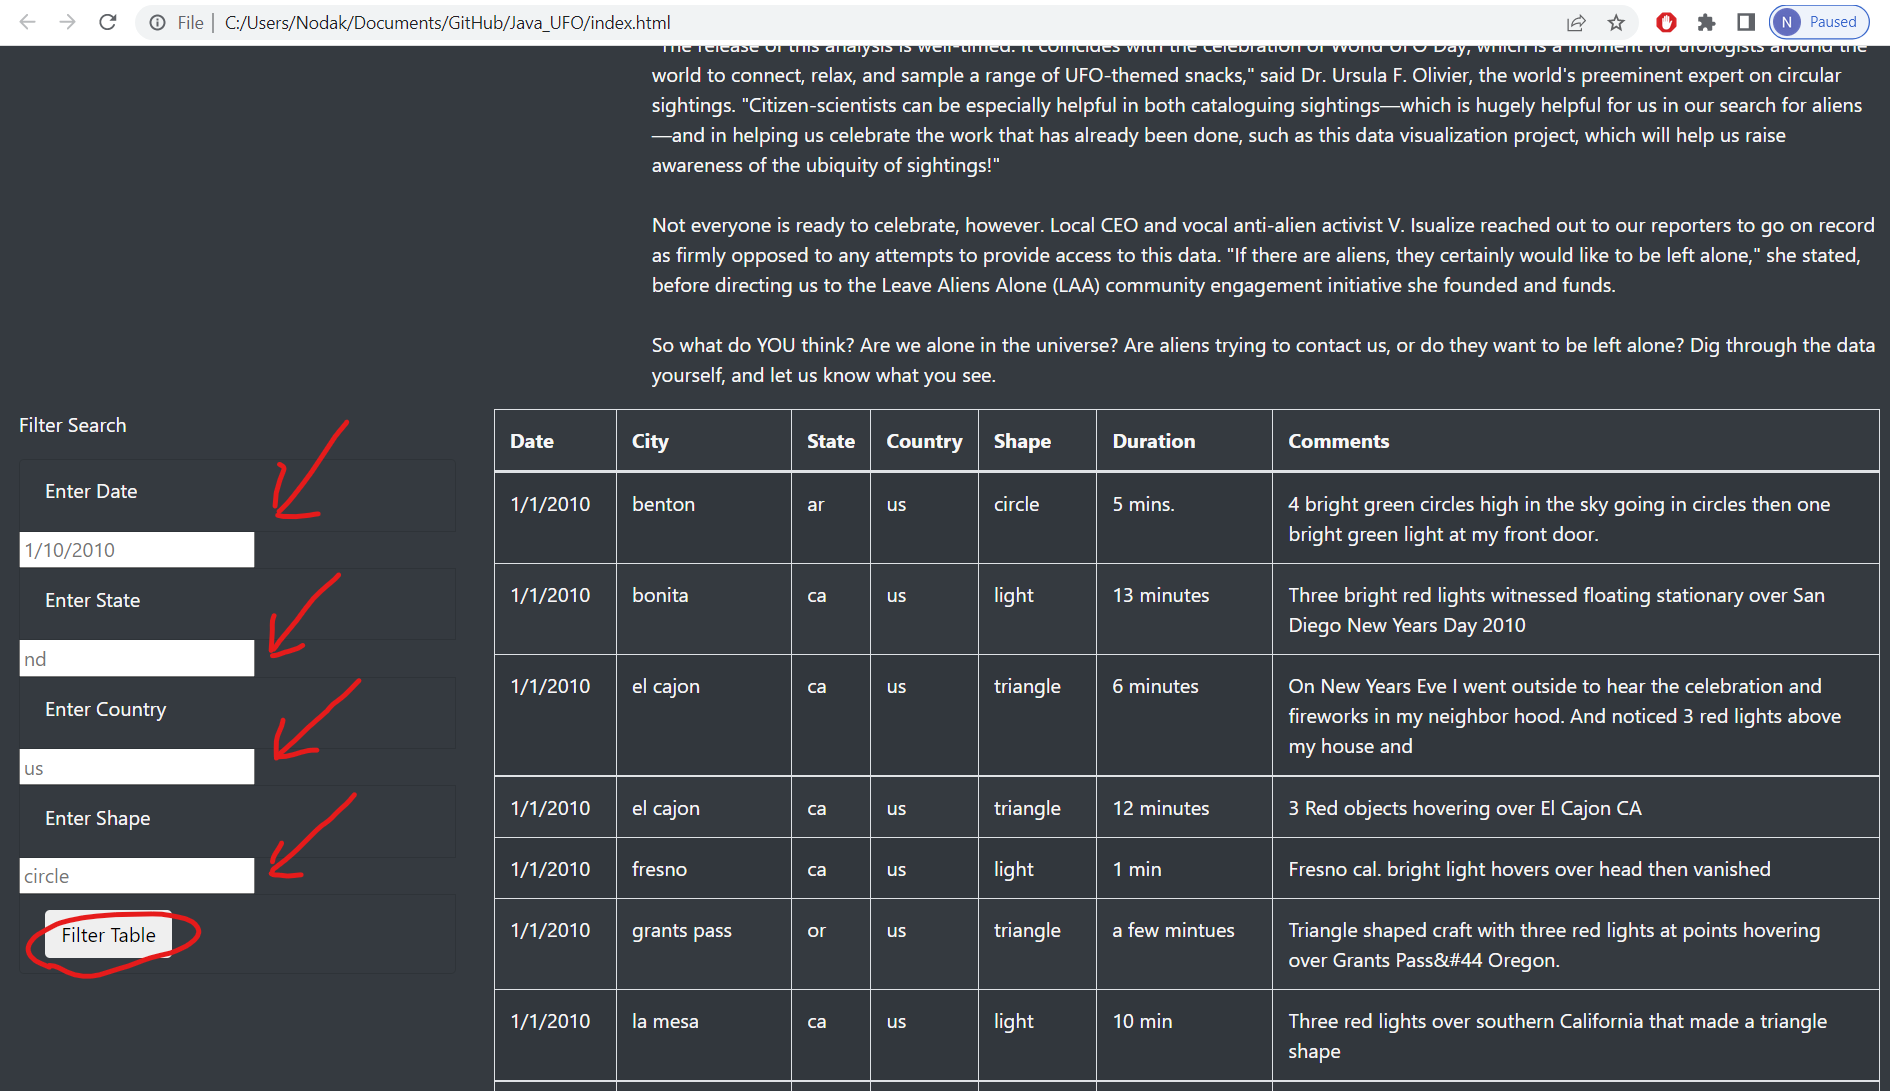
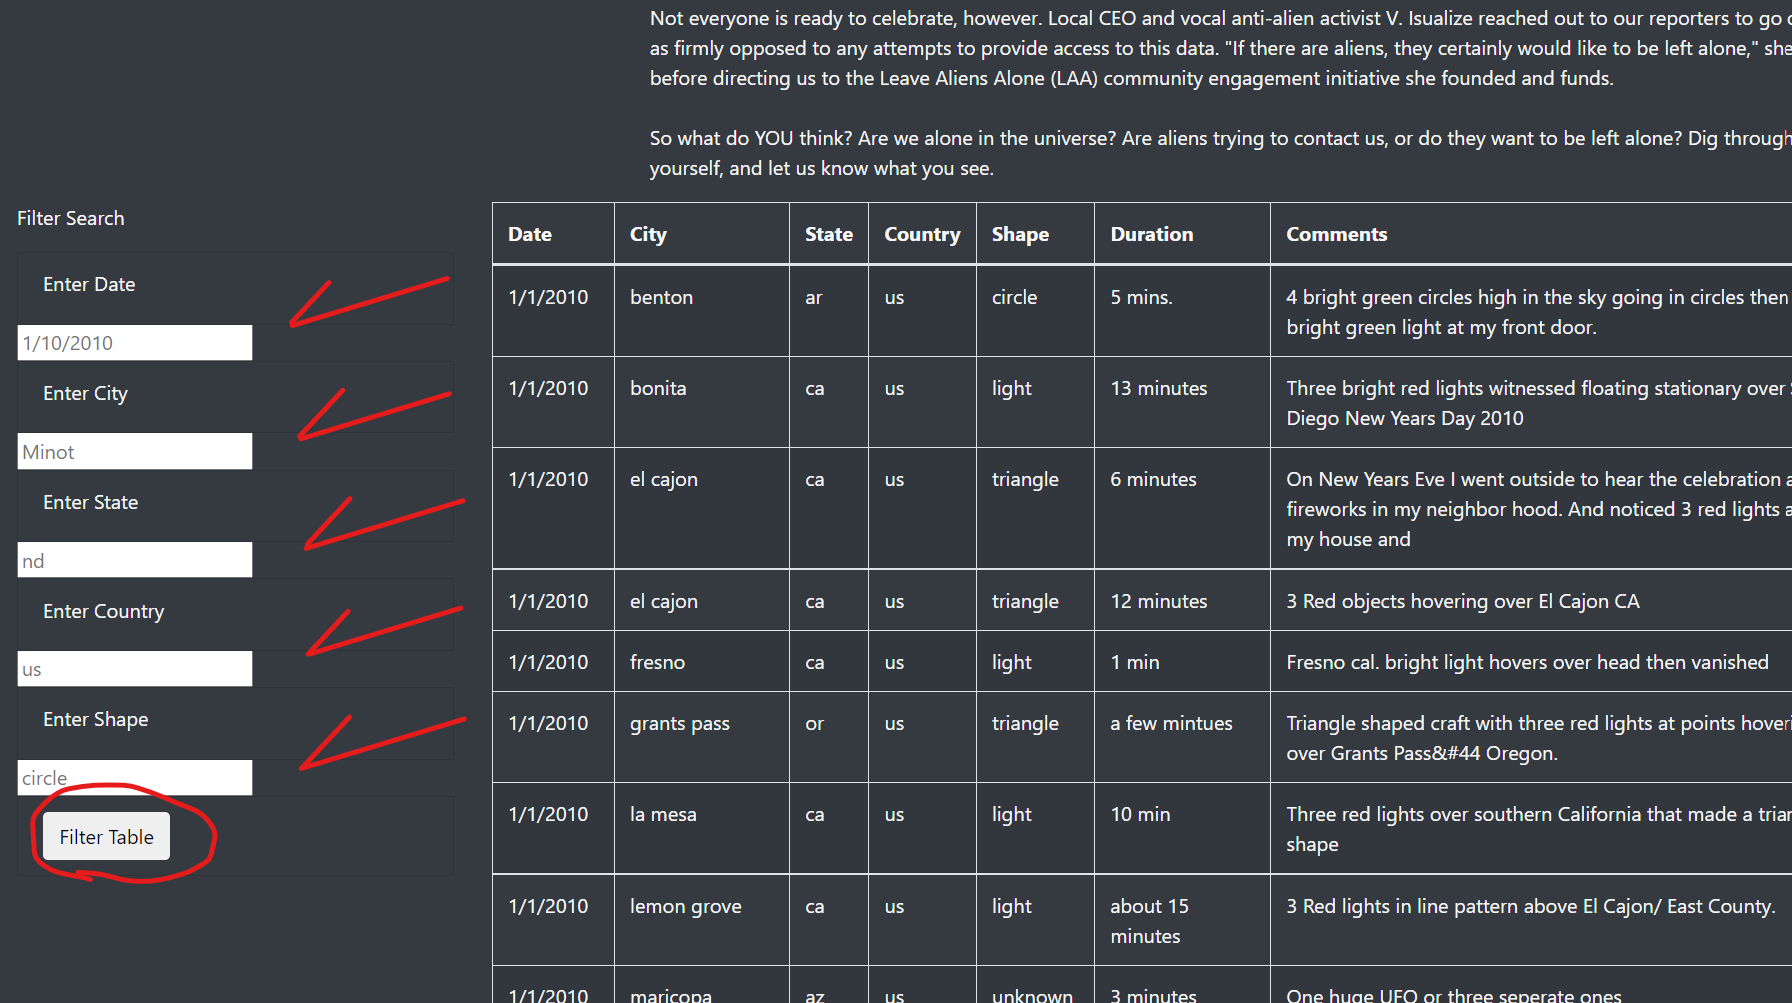
Second Commit
Updated Search to take a fifth input, "City". Updated summary and README to reflect changes

diff --git a/js/app.js b/js/app.js
@@ -26,45 +26,21 @@ function buildTable(data) {
 function handleClick() {
     // Grab the datetime value from the filter
     let date = d3.select("#datetime").property("value");
+    let city = d3.select("#city").property("value");
     let state = d3.select("#state").property("value");
     let country = d3.select("#country").property("value");
     let shape = d3.select("#shape").property("value");
 
-    state =  state.toLowerCase();
+    city = city.toLowerCase();
+    state = state.toLowerCase();
     country = country.toLowerCase();
     shape = shape.toLowerCase();
 
     let filteredData = tableData;
   
-//      // Check to see if a date was entered and filter the
-//     // data using that date.
-//     if (date) {
-//       // Apply `filter` to the table data to only keep the
-//       // rows where the `datetime` value matches the filter value
-//       filteredData = filteredData.filter(row => row.datetime === date);
-//     }
-//     if (state) {
-//         // Apply `filter` to the table data to only keep the
-//         // rows where the `datetime` value matches the filter value
-//         filteredData = filteredData.filter(row => row.state === state);
-//     }
-//     if (country) {
-//     // Apply `filter` to the table data to only keep the
-//     // rows where the `datetime` value matches the filter value
-//     filteredData = filteredData.filter(row => row.country === country);
-//     }
-//     if (shape) {
-//     // Apply `filter` to the table data to only keep the
-//     // rows where the `datetime` value matches the filter value
-//     filteredData = filteredData.filter(row => row.shape === shape);
-//     }
-//      // Rebuild the table using the filtered data
-//     // @NOTE: If no date was entered, then filteredData will
-//     // just be the original tableData.
-//     buildTable(filteredData);
-// }
     var filters = {};
     filters["datetime"] = date;
+    filters["city"] = city;
     filters["state"] = state;
     filters["country"] = country;
     filters["shape"] = shape;
@@ -77,7 +53,6 @@ function handleClick() {
             request_filters.push([key, filters[key]])
         };
     }
-    console.log(filteredData[0][request_filters[0][0]]);
 
     if (request_filters.length==1) {
         search_results = filteredData.filter(i => i[request_filters[0][0]]==request_filters[0][1]);
@@ -88,8 +63,11 @@ function handleClick() {
     } else if (request_filters.length==3) {
         search_results = filteredData.filter(i => (i[request_filters[0][0]]==request_filters[0][1] && i[request_filters[1][0]]===request_filters[1][1] && i[request_filters[2][0]]===request_filters[2][1]))
         console.log(search_results)
-    } else {
+    } else if (request_filters.length==4) {
         search_results = filteredData.filter(i => (i[request_filters[0][0]]==request_filters[0][1] && i[request_filters[1][0]]===request_filters[1][1] && i[request_filters[2][0]]===request_filters[2][1] && i[request_filters[3][0]]===request_filters[3][1]))
+        console.log(search_results)
+    } else {
+        search_results = filteredData.filter(i => (i[request_filters[0][0]]==request_filters[0][1] && i[request_filters[1][0]]===request_filters[1][1] && i[request_filters[2][0]]===request_filters[2][1] && i[request_filters[3][0]]===request_filters[3][1] && i[request_filters[4][0]]===request_filters[4][1]))
         console.log(search_results)
     }
 

diff --git a/index.html b/index.html
@@ -49,19 +49,25 @@
                             <input type="text" placeholder="1/10/2010" id="datetime" />
                         </li>
                         <li class="list-group-item bg-dark">
-                            <label for="date">Enter State</label>
+                            <label for="city">Enter City</label>
+                        </li>
+                        <li>
+                            <input type="text" placeholder="Minot" id="city" />
+                        </li>
+                        <li class="list-group-item bg-dark">
+                            <label for="state">Enter State</label>
                         </li>
                         <li>
                             <input type="text" placeholder="nd" id="state" />
                         </li>
                         <li class="list-group-item bg-dark">
-                            <label for="date">Enter Country</label>
+                            <label for="country">Enter Country</label>
                         </li>
                         <li>
                             <input type="text" placeholder="us" id="country" />
                         </li>
                         <li class="list-group-item bg-dark">
-                            <label for="date">Enter Shape</label>
+                            <label for="shape">Enter Shape</label>
                         </li>
                         <li>
                             <input type="text" placeholder="circle" id="shape" />

diff --git a/UFO_Sighting_Summary.md b/UFO_Sighting_Summary.md
@@ -3,7 +3,7 @@
 ## Background
 ----------------
 
-The goal of this analysis was to create an interactive webpage that allows one or more of four designated search criteria to filter through UFO sightings data. The filters can be input directly on the active webpage, which are then used to re-filter the data based on those criteria provided. THe output data is displayed on the webpage in a table format.
+The goal of this analysis was to create an interactive webpage that allows one or more of five designated search criteria to filter through UFO sightings data. The filters can be input directly on the active webpage, which are then used to re-filter the data based on those criteria provided. The output data is displayed on the webpage in a table format.
 
 ## Results
 -----------------
@@ -11,7 +11,7 @@ The goal of this analysis was to create an interactive webpage that allows one o
 ### **Input of Search Criteria**
 
 
-The desired search criteria can be input on the webpage in any of four input boxes located on the bottom left. Once the data has been input, and is correctly input to match the formatting in the table, click the "Filter Table" button to initiate the search.
+The desired search criteria can be input on the webpage in any of five input boxes located on the bottom left. Once the data has been input, and is correctly input to match the formatting in the table, click the "Filter Table" button to initiate the search.
 
 ![Webpage search input](/Pictures/Webpage_Search.png)
 
@@ -24,7 +24,7 @@ Resetting the page is simply a click in the upper left corner of the screen on t
 ## Summary
 ___________________
 
-This webpage allows for the search of any UFO sightings within the provided dataset based on four specific search criteria.
+This webpage allows for the search of any UFO sightings within the provided dataset based on five specific search criteria.
 
 One drawback of this webpage is the lack of summary statistics that could guide a user to know what searches to make. As the webpage is currently, one would need to scroll through the initial table to determine what criteria they can input. 
 

diff --git a/README.md b/README.md
@@ -1,4 +1,7 @@
 # UFO Sightings Data Filter HTML/Java
 
 * 24APR2022
-Initital commit of the repository with the index.HTML, static and JS subfolders, and javascript codes, style.css, and imagery. Code runs to filter out UFO data based on one or more of four criteria. Results are displayed onto the table.
+Initital commit of the repository with the index.HTML, static and JS subfolders, and javascript codes, style.css, and imagery. Code runs to filter out UFO data based on one or more of five criteria. Results are displayed onto the table.
+
+* 24APR2022
+Second cimmit to update search code to take a fifth criteria "City". Updated Summary and README to reflect changes.
